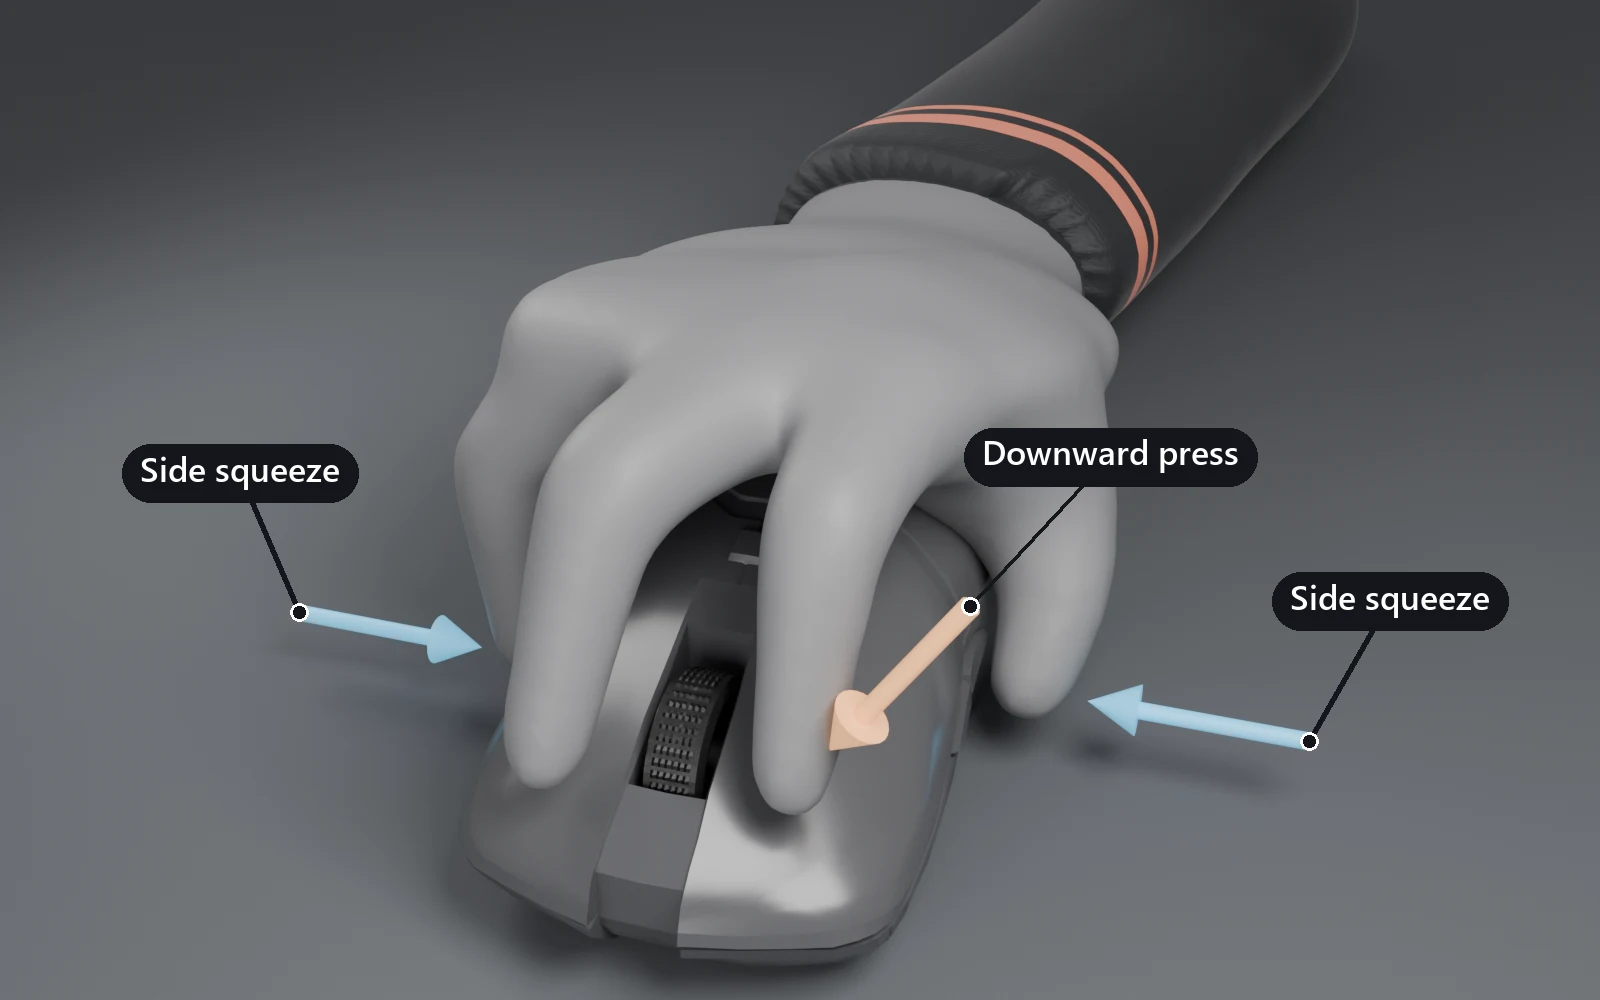
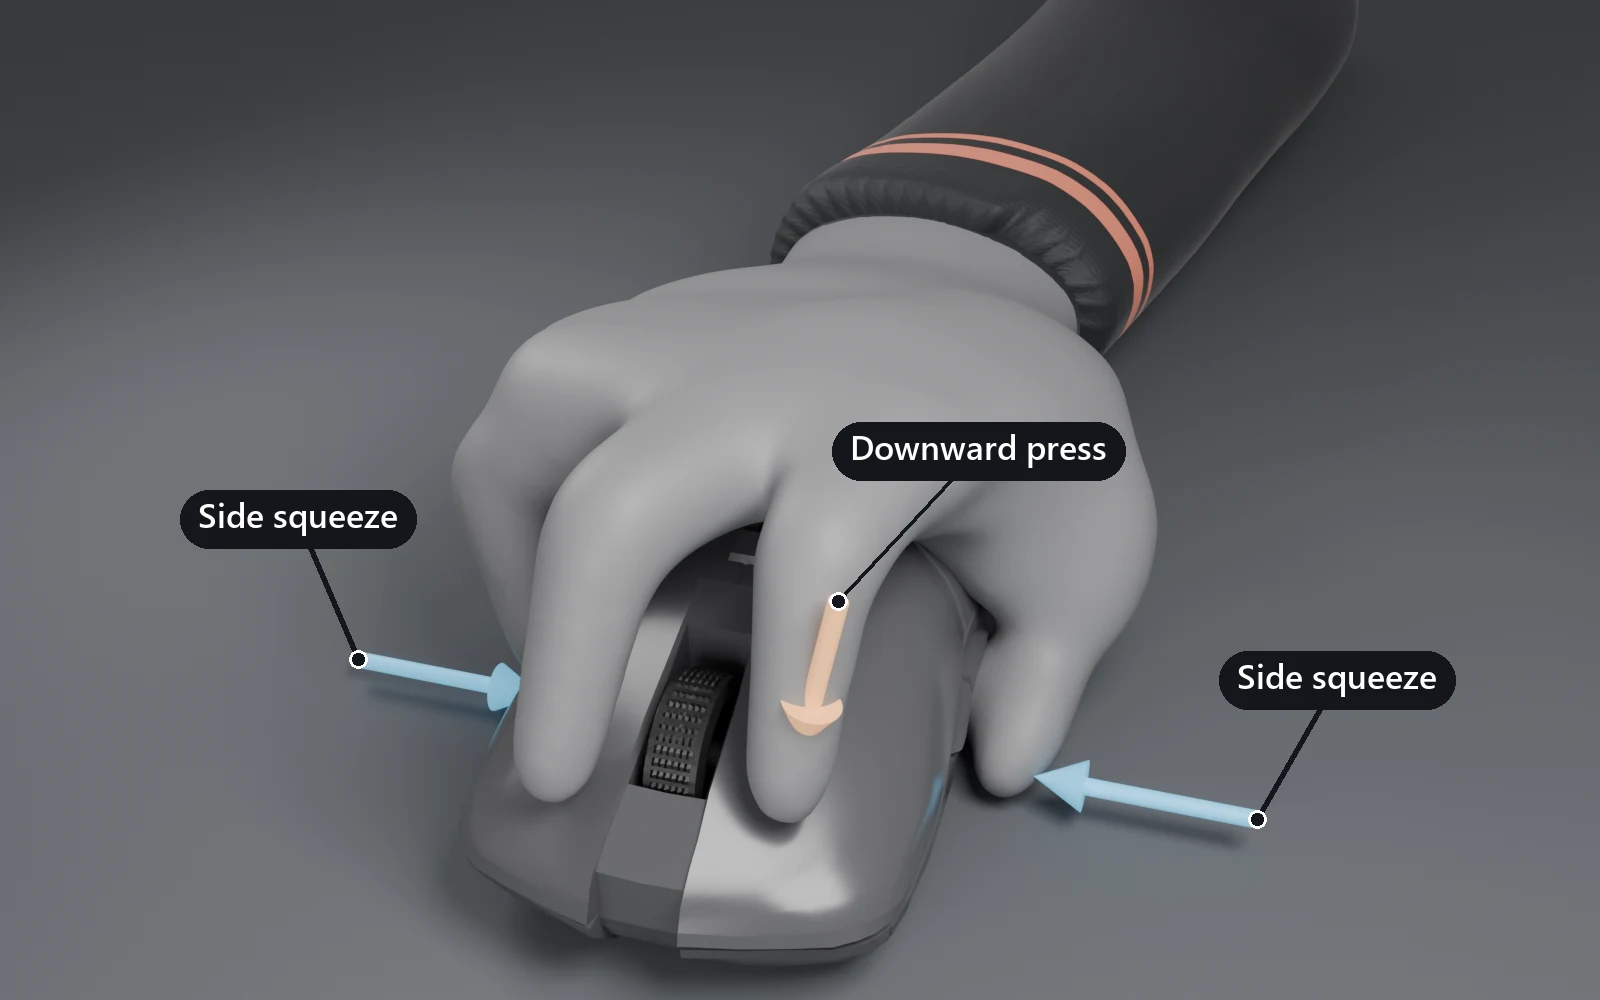
docs: settle the grip pose and press the fingertips onto the mouse
Drop the whole hand onto the shell, shorten the fingers a little further, and lift each fingertip
by the skin's own radius rather than the bone's, so index, middle, ring and pinky rest on their
spots instead of floating. Lay the thumb along the flank below the side buttons, turned in around
the shell, and hold it off the surface so no part of it sinks in.

Point the two side-squeeze arrows at the same line on either flank, and bring the downward-press
arrow straight down so it no longer lies across the fingers.

diff --git a/scripts/figures/tension/hand_scene.py b/scripts/figures/tension/hand_scene.py
@@ -105,12 +105,27 @@ def on_top(x, y, lift):
     return surface_hit((x, y, 20.0), (0, 0, -1), lift)
 
 
+def clear_of_mouse(p, radius):
+    """Move p out to the mouse's surface when it sits inside the shell or too close to it, so a finger
+    drawn around it never passes through the mouse."""
+    loc, normal, _index, _dist = BVH.find_nearest(Vector(p))
+    if loc is None:
+        return Vector(p)
+    out = Vector(p) - loc
+    if normal.dot(out) < 0:
+        normal = -normal
+    gap = radius * 1.15 + THUMB_GAP
+    return loc + normal * gap if out.length < gap else Vector(p)
+
+
 def on_side(side, y, z, lift):
     """The mouse's right (side 1) or left (side -1) flank at height z."""
     return surface_hit((side * 20.0, y, z), (-side, 0, 0), lift)
 
 
 BVH = load_mouse()
+THUMB_GAP = float(arg("--thumb-gap", "0"))   # skin kept this far off the shell along the thumb
+THUMB_OUT = float(arg("--thumb-out", "0"))    # the whole thumb moved this far out from the mouse
 
 
 # Skeleton.
@@ -120,8 +135,9 @@ U = Vector((0, -math.sin(PITCH), math.cos(PITCH)))  # out of the back of the han
 X = Vector((1, 0, 0))
 CONTACT = on_top(0.25, -4.1, 0.0)                    # palm heel on the rear of the hump
 PALM_T = 2.0
-PALM_BACK = CONTACT - F * 1.4 + U * (PALM_T / 2)
-PALM_FRONT = CONTACT + F * 5.8 + U * (PALM_T / 2 + 0.15)
+HAND_DROP = float(arg("--hand-drop", "0.65"))        # how far the whole hand sits down the mouse
+PALM_BACK = CONTACT - F * 1.4 + U * (PALM_T / 2 - HAND_DROP)
+PALM_FRONT = CONTACT + F * 5.8 + U * (PALM_T / 2 + 0.15 - HAND_DROP)
 WRIST = PALM_BACK - F * 1.9 + U * 0.1
 ELBOW = Vector((-2.2, WRIST.y - 21.0, 2.2))
 
@@ -156,18 +172,23 @@ def finger_chain(base, target, lengths, bend):
 
 # Phalanx lengths below are an adult hand's; the render uses them at FINGER_LENGTH, and the thumb at
 # THUMB_LENGTH, so the fingers do not dwarf the mouse.
-FINGER_LENGTH, THUMB_LENGTH = 0.85, 0.91
+FINGER_LENGTH, THUMB_LENGTH = 0.8, 0.956
 # name: knuckle offset across the palm, knuckle offset back along F, phalanx lengths,
 # radii at knuckle / middle / tip, fingertip contact as a function of fingertip radius.
+# A fingertip's skin sits at TIP_TOUCH of the radius its bone is given, so the contact is lifted by
+# that much: the pad rests on the mouse instead of floating above it.
+TIP_TOUCH = float(arg("--tip-touch", "0.6"))
 FINGERS = {
-    "index": (-2.05, 0.1, (3.1, 2.1, 1.7), (0.66, 0.58, 0.5), lambda r: on_top(-1.35, 4.3, r)),
-    "middle": (-0.35, 0.0, (3.4, 2.3, 1.8), (0.68, 0.6, 0.52), lambda r: on_top(1.2, 4.6, r)),
-    "ring": (1.3, 0.35, (3.35, 2.25, 1.75), (0.63, 0.55, 0.48), lambda r: on_side(1, 0.9, 1.2, r)),
-    "pinky": (2.75, 1.1, (2.65, 1.8, 1.55), (0.55, 0.49, 0.43), lambda r: on_side(1, -1.6, 0.9, r)),
+    "index": (-2.05, 0.1, (3.1, 2.1, 1.7), (0.66, 0.58, 0.5), lambda r: on_top(-1.35, 4.3, r * TIP_TOUCH)),
+    "middle": (-0.35, 0.0, (3.4, 2.3, 1.8), (0.68, 0.6, 0.52), lambda r: on_top(1.2, 4.6, r * TIP_TOUCH)),
+    "ring": (1.3, 0.35, (3.35, 2.25, 1.75), (0.63, 0.55, 0.48), lambda r: on_side(1, 0.9, 1.2, r * TIP_TOUCH)),
+    "pinky": (2.75, 1.1, (2.65, 1.8, 1.55), (0.55, 0.49, 0.43), lambda r: on_side(1, -1.6, 0.9, r * TIP_TOUCH)),
 }
 # The thumb has two segments past the palm, so it shows one joint, as a real thumb does.
-THUMB = ((3.3, 1.85), (0.8, 0.62, 0.54), lambda r: on_side(-1, -0.2, 1.35, r))
-THUMB_BASE = PALM_BACK + F * 2.2 - X * 2.6 - U * 0.6
+# The thumb rests low on the flank, below the side buttons, so both stay visible above it. Its contact
+# is lifted by more than the tip's radius, so the skin sits on the shell instead of sinking into it.
+THUMB = ((3.45, 2.05), (0.8, 0.62, 0.46), lambda r: on_side(-1, 4.5, 0.5, r * 10 + 0.1))
+THUMB_BASE = PALM_BACK + F * 2.2 - X * 2.8 - U * 0.6
 
 
 # Fingers and thumb are drawn FINGER_THICKNESS times the radii in their tables; the palm and wrist are
@@ -175,16 +196,20 @@ THUMB_BASE = PALM_BACK + F * 2.2 - X * 2.6 - U * 0.6
 FINGER_THICKNESS, BODY_PUFF = 1.4, 1.08
 
 
-def finger_tube(elements, pts, r):
+def finger_tube(elements, pts, r, clear=False):
     """A finger as closely spaced balls with radii eased along its bones. Capsules would overlap at
-    each joint and swell it; an even run of balls keeps the finger smooth from knuckle to tip."""
+    each joint and swell it; an even run of balls keeps the finger smooth from knuckle to tip. With
+    clear set, every ball is held outside the mouse, so no part of the finger sinks into the shell."""
+    def ball(centre, radius):
+        elements.append(("ball", (clear_of_mouse(centre, radius) if clear else centre, radius * 0.78)))
+
     for i in range(len(pts) - 1):
         a, b = pts[i], pts[i + 1]
         n = max(2, int((b - a).length / 0.22))
         for j in range(n):
             t = j / n
-            elements.append(("ball", (a.lerp(b, t), (r[i] + (r[i + 1] - r[i]) * t) * 0.78)))
-    elements.append(("ball", (pts[-1], r[len(pts) - 1] * 0.78)))
+            ball(a.lerp(b, t), r[i] + (r[i + 1] - r[i]) * t)
+    ball(pts[-1], r[len(pts) - 1])
 
 
 def build_skeleton():
@@ -233,14 +258,19 @@ def build_skeleton():
     radii = [v * FINGER_THICKNESS * 0.975 for v in radii]
     lengths = [v * THUMB_LENGTH for v in lengths]
     pts = finger_chain(THUMB_BASE, contact(radii[2]), lengths, (1, 0.1, -0.55))
+    # Every joint is held outside the shell, then the last segment turns in toward the mouse and
+    # forward, so the thumb arcs around it rather than passing through it.
+    pts = [clear_of_mouse(q - X * THUMB_OUT, rad) for q, rad in zip(pts, radii)]
+    tip_dir = (pts[2] - pts[1]).normalized() + X * 0.5 + F * 0.45
+    pts[2] = pts[1] + tip_dir.normalized() * (pts[2] - pts[1]).length
     joints["thumb"] = (pts, radii)
     # The thumb's first segment is mostly inside the hand: it is drawn as a thenar mass that blends into
     # the palm, and the thumb proper starts partway along it, so no ridge runs across the palm.
     root = pts[0].lerp(pts[1], 0.45)
     thenar = pts[0].lerp(root, 0.5) - U * 0.1
     elements.append(("ellipsoid", ((thenar + PALM_BACK.lerp(PALM_FRONT, 0.45) + X * 0.6) / 2,
-                                   (1.25 * k, (root - pts[0]).length * 0.75, 0.95 * k), root - pts[0])))
-    finger_tube(elements, [root, pts[1], pts[2]], (radii[0] * 1.05, radii[1], radii[2]))
+                                   (1.1 * k, (root - pts[0]).length * 0.75, 0.88 * k), root - pts[0])))
+    finger_tube(elements, [root, pts[1], pts[2]], (radii[0] * 1.05, radii[1], radii[2]), clear=True)
     # Fill the valley where the thumb's root meets the palm, so the two run together instead of meeting
     # in a fold that catches a shadow.
     for t in (0.0, 0.25, 0.5, 0.75, 1.0):
@@ -256,7 +286,7 @@ def build_skeleton():
         mid = thumb_side.lerp(index_side, 0.5)
         along = index_side - thumb_side
         along -= U * along.dot(U)
-        elements.append(("ellipsoid", (mid, (0.5, along.length * 0.4, 0.32), along)))
+        elements.append(("ellipsoid", (mid, (0.44, along.length * 0.4, 0.27), along)))
     return elements, joints
 
 
@@ -544,10 +574,14 @@ def build():
         tp, tr = joints["thumb"]
         rp, rr = joints["ring"]
         ip, ir = joints["index"]
-        anchors["squeeze_left"] = arrow(tp[-1] - X * (tr[2] + gap), X, 3.0, squeeze)
-        anchors["squeeze_right"] = arrow(rp[-1] + X * (rr[2] + gap), -X, 3.0, squeeze)
-        press_dir = Vector((0.55, 0.0, -0.84)).normalized()
-        anchors["press"] = arrow(ip[-1] - press_dir * (ir[2] + gap), press_dir, 2.8, press)
+        left_tip = tp[-1] - X * (tr[2] + gap)
+        anchors["squeeze_left"] = arrow(left_tip, X, 3.0, squeeze)
+        # The pair reads as one squeeze, so the right arrow meets the mouse's other flank on the same
+        # line as the left one rather than chasing the ring finger's hidden tip.
+        anchors["squeeze_right"] = arrow(on_side(1, left_tip.y, left_tip.z, rr[2] + gap), -X, 3.0, squeeze)
+        # Nearly straight down and short, so the arrow does not lie across the other fingers.
+        press_dir = Vector((0.2, 0.0, -0.98)).normalized()
+        anchors["press"] = arrow(ip[-1] - press_dir * (ir[2] + gap), press_dir, 2.2, press)
     return anchors
 
 
